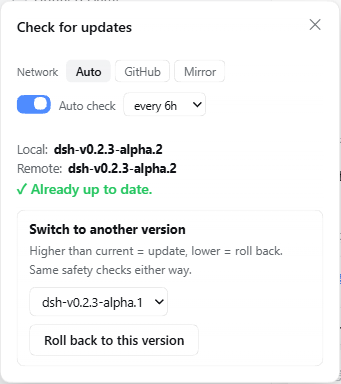
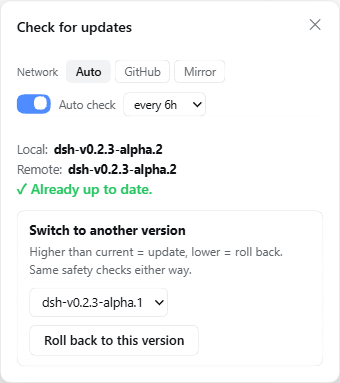
docs: 全部配图按当前界面重新截取
按钮宽度改成 flex 0 1 auto 之后，之前那批图（尤其是侧栏区域图和进度条）已经不是现在的样子了，全部重拍。

侧栏图：按 Remote 顶边到按钮底边精确裁切，宽 113px，补侧栏底色留白后 2 倍放大成 246x184。

浮层图：中文与 English 各一张，同样是实测元素矩形后精确裁切（340x345 / 340x383）。

删掉 panel-collapsed.png：实测侧栏折叠后只有 56px 宽，而浮层固定 340px，折叠态下浮层会把侧栏完全盖住，两张图在视觉上没有区别，这张图证明不了任何事。

顺带修正两处过时的「98px」说法（README 与 client.js 的注释），实测折叠宽度是 56px。

diff --git a/lib/client.js b/lib/client.js
@@ -686,8 +686,8 @@ function popoverAnchor(anchor) {
 }
 
 /** 浮层宽度：固定 340，仅受视口限制。
- *  浮层已 portal 到 body + position:fixed，可以越过侧栏边界——侧栏折叠或只有
- *  98px 宽时，用侧栏宽度算会把它压成竖条，所以这里不再参考 footer。 */
+ *  浮层已 portal 到 body + position:fixed，可以越过侧栏边界——侧栏折叠成
+ *  56px 窄条时，用侧栏宽度算会把它压成竖条，所以这里不再参考 footer。 */
 function popoverWidth() {
 			return "min(340px, calc(100vw - 32px))";
 		}

diff --git a/README.md b/README.md
@@ -33,22 +33,20 @@ DeepSeek Harness 网页版（web）是用你自己的本地仓库跑的，升级
 
 按钮在侧栏底部，**宽度跟着文字走**，不撑满整行。同一行里兄弟按钮高度接近就并排，差得多就自己占一行——下面这张图中 Remote 是 42px、我们是 32px，所以各占一行：
 
-<p align="left"><img src="docs/images/sidebar-layout.png" width="220" alt="侧栏底部：Remote 与「检查更新」，两者高度不同，各占一行"></p>
+<p align="left"><img src="docs/images/sidebar-layout.png" width="246" alt="侧栏底部：Remote 与「检查更新」，两者高度不同，各占一行"></p>
 
 ### 检查更新浮层
 
-点开是贴着按钮弹出的浮层，不是全屏遮罩。侧栏折叠到 98px 宽时它照样完整：
-
-<p align="left"><img src="docs/images/panel-zh.png" width="341" alt="检查更新浮层：网络来源、自动检查、版本对比、切换到其它版本"></p>
+点开是贴着按钮弹出的浮层，不是全屏遮罩。它被 portal 到 `body` 并固定定位，所以侧栏折叠成窄条时也不会被裁掉：
 
 <table>
 <tr>
-<td><img src="docs/images/panel-collapsed.png" width="330" alt="侧栏折叠时浮层仍然完整"></td>
-<td><img src="docs/images/panel-en.png" width="330" alt="English 界面"></td>
+<td><img src="docs/images/panel-zh.png" width="300" alt="检查更新浮层：网络来源、自动检查、版本对比、切换到其它版本"></td>
+<td><img src="docs/images/panel-en.png" width="300" alt="English 界面"></td>
 </tr>
 <tr>
-<td align="center"><sub>侧栏折叠到 98px，浮层照常显示</sub></td>
-<td align="center"><sub>English（三语之一）</sub></td>
+<td align="center"><sub>中文</sub></td>
+<td align="center"><sub>English</sub></td>
 </tr>
 </table>
 
